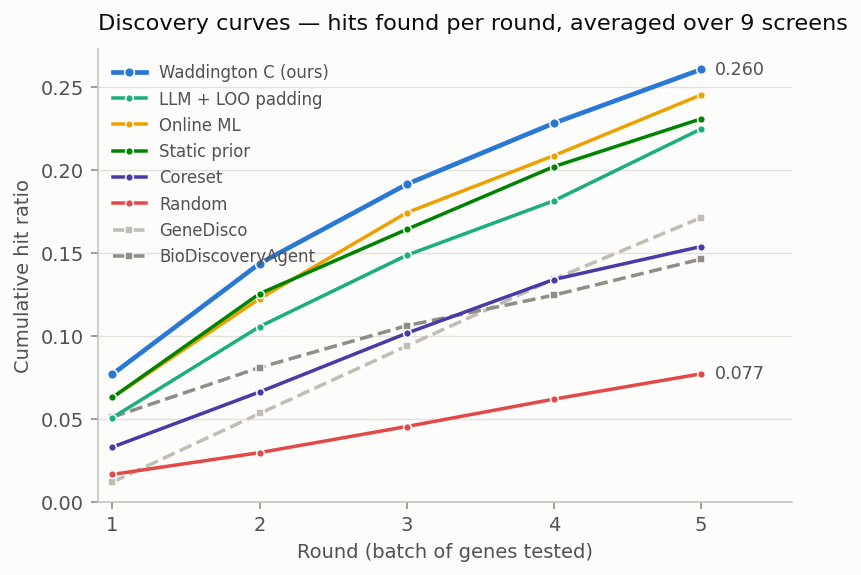
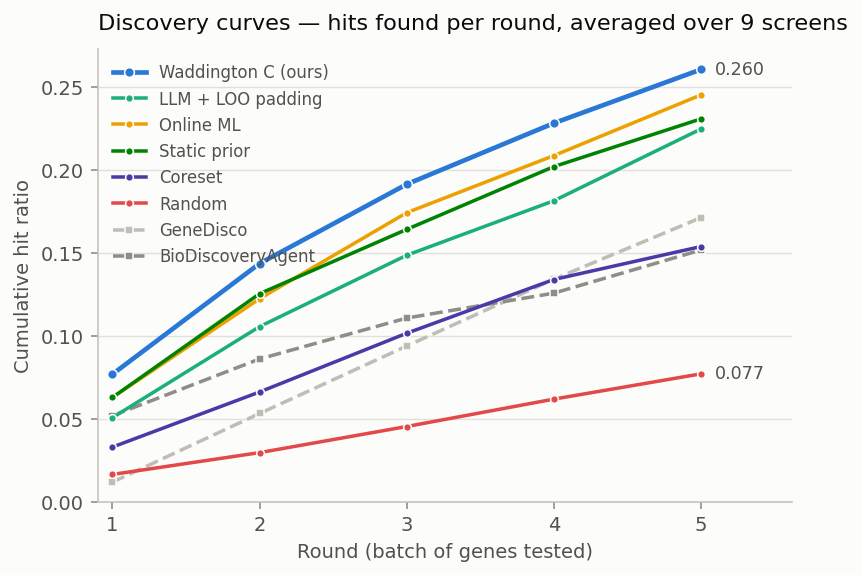
BDA's single-gene runs read with the corrected Replogle prompts
sources.BDA_HEADLINE_RUN / BDA_FULL_POOL_RUN (the experiment-25 merges) are
now what data.load_external, result_figures, label_free_vs_bda,
tier_extension and summarize_tiers read. BDA: 0.152 on both tiers (was
0.146 / 0.166). Degree vs BDA +0.012 [-0.034, 0.059] 5/0/4 (was +0.017),
on the full pool -0.005 (BDA wastes 32 of 160 K562-Essential picks on
names outside the pool, was 96). tier_extension_summary: only the BDA
full-pool entries change (plus float noise in the last digits). Figures
1-3, 14 and 24 redrawn; the tier chart no longer says BDA rises.

diff --git a/waddington_select/analysis/result_figures.py b/waddington_select/analysis/result_figures.py
@@ -34,7 +34,7 @@ from matplotlib.patches import Patch, Rectangle  # noqa: E402
 from matplotlib.ticker import PercentFormatter  # noqa: E402
 
 from . import style as S  # noqa: E402
-from .sources import MATCHED_B_ARM, matched_b_run  # noqa: E402
+from .sources import BDA_FULL_POOL_RUN, BDA_HEADLINE_RUN, MATCHED_B_ARM, matched_b_run  # noqa: E402
 
 REPO = Path(__file__).resolve().parents[2]
 RES = REPO / "workspace" / "results"
@@ -695,11 +695,11 @@ def fig_tiers():
     """Every method on the two single-gene tiers."""
     mb, mbb = load("matched_baselines.json"), load("matched_b.json")
     h, f = mb["headline"]["means"], mb["full_pool"]["means"]
-    paper(0.146, 0.166, 0.171, 0.170)
+    paper(0.152, 0.171, 0.170)
     items = [("Waddington C", h["C"], f["C"]), ("Online ML", h["matched_online_ml"], f["matched_online_ml"]),
              (name_static(), h["matched_static_prior"], f["matched_static_prior"]),
              (name_b(), mbb["headline"]["means"]["matched_B"], mbb["full_pool"]["means"]["matched_B"]),
-             ("GeneDisco", 0.171, 0.170), ("BDA", 0.146, 0.166), ("Coreset", h["matched_coreset"], f["matched_coreset"]),
+             ("GeneDisco", 0.171, 0.170), ("BDA", 0.152, 0.152), ("Coreset", h["matched_coreset"], f["matched_coreset"]),
              ("Random", h["benchmark_random"], f["benchmark_random"])]
     fig, ax = plt.subplots(figsize=(6.6, 2.7))
     yy = np.arange(len(items))[::-1]
@@ -717,8 +717,8 @@ def fig_tiers():
     legend(ax, [Line2D([], [], marker="o", ls="", ms=7, color=BLUE, label=L("非必需（主档）", "non-essential (headline)")),
                 Line2D([], [], marker="s", ls="", ms=7, color=PURPLE, label=L("全池", "full pool"))], loc="upper left")
     title(ax, L("两个单扰动档：排序基本不变", "The two single-gene tiers: the ordering barely moves"),
-          L("只有 BDA 在全池档明显上升（必需基因正是 LLM 容易点名的）",
-            "only BDA rises clearly on the full pool"))
+          L("每个方法在两档之间的变化都不超过 0.01",
+            "no method moves by more than 0.01 between the tiers"))
     save(fig, "tiers")
 
 
@@ -896,11 +896,11 @@ def _single_tier(tier: str) -> dict:
          "Coreset": {s: mat[s]["coreset"] for s in SCREENS},
          "Random": {s: rep[s]["random"] for s in SCREENS}}
     if tier == "headline":
-        bda = load("bda_controlled/bda_gpt.json")["results"]
+        bda = json.loads(BDA_HEADLINE_RUN.read_text())["results"]
         m["BDA"] = {s: bda[s]["hit_ratio_per_round"] for s in SCREENS}
         m["GeneDisco"] = _gd_curves(RES / "ml_engines")
     else:
-        bda = json.loads((GPT / "tier_a_full_pool_20rep" / "bda_controlled.json").read_text())
+        bda = json.loads(BDA_FULL_POOL_RUN.read_text())
         m["BDA"] = {s: bda[s]["bda"][0]["hit_ratio_per_round"] for s in SCREENS}
         m["GeneDisco"] = _gd_curves(RES / "ml_engines" / "tier_a")
     return m
@@ -1486,9 +1486,9 @@ TIER_FIGS = (fig_tier_overall, fig_tier_screens, fig_tier_curves, fig_tier_paire
 
 # BDA and GeneDisco per screen: paper Table 4 (headline) and Table 22 (full pool)
 GD_H = [0.104, 0.168, 0.071, 0.088, 0.052, 0.433, 0.043, 0.352, 0.228]
-BDA_H = [0.110, 0.133, 0.038, 0.073, 0.050, 0.327, 0.131, 0.254, 0.199]
+BDA_H = [0.110, 0.133, 0.038, 0.073, 0.050, 0.327, 0.131, 0.365, 0.137]   # Replogle pair: corrected prompts
 GD_F = [0.098, 0.174, 0.058, 0.071, 0.061, 0.449, 0.042, 0.352, 0.228]
-BDA_F = [0.098, 0.099, 0.039, 0.097, 0.042, 0.358, 0.121, 0.492, 0.147]
+BDA_F = [0.098, 0.099, 0.039, 0.097, 0.042, 0.358, 0.121, 0.349, 0.160]   # Replogle pair: corrected prompts
 
 
 def main() -> None:

diff --git a/waddington_select/analysis/label_free_vs_bda.py b/waddington_select/analysis/label_free_vs_bda.py
@@ -6,7 +6,8 @@ ties in a label-free order) sit at or above BDA's 0.146 on the headline tier. Th
 asymmetry in our favour (Method, Relationship to BioDiscoveryAgent): our arms, and these rankings, choose
 from the non-essential pool, while BDA's agent proposes from the whole genome and every core-essential (or
 out-of-pool) name it gives is a wasted slot. So each ranking is scored two ways, paired by screen against
-BDA's GPT-5.6 Luna run (bda_controlled/bda_gpt.json, one run per screen):
+BDA's GPT-5.6 Luna run (sources.BDA_HEADLINE_RUN: bda_controlled/bda_gpt.json with the two Replogle screens
+re-run under the corrected task prompts, one run per screen):
 
   ne_pool     candidates = the non-essential pool (as the paper's rankings, and our arms)
   full_pool   candidates = the full pool (core-essential genes restored, tables.tier_tables("full_pool")),
@@ -36,7 +37,7 @@ from .final_system_stats import _paired
 
 REPO = Path(__file__).resolve().parents[2]
 NE_V3 = REPO / "workspace" / "evaluation" / "lgbm_training_data_v3.csv"   # as ml_engines.label_free_baselines
-BDA = REPO / "workspace" / "results" / "bda_controlled" / "bda_gpt.json"
+from .sources import BDA_HEADLINE_RUN as BDA  # noqa: E402
 OUT = REPO / "workspace" / "results" / "label_free_vs_bda.json"
 FEATURES = ["hub_score_norm", "ppi_score_sum", "string_degree_norm", "depmap_frac_ess"]
 

diff --git a/waddington_select/analysis/sources.py b/waddington_select/analysis/sources.py
@@ -37,6 +37,14 @@ def matched_b_run(setting: str) -> Path:
     return MATCHED_B_DIR / setting / f"{MATCHED_B_ARM}_20rep.json"
 
 
+# BioDiscoveryAgent's controlled runs on the two single-gene tiers (one run per screen), with the two Replogle
+# screens re-run under the corrected task prompts (experiment 25, analysis/bda_replogle_v2.py). The originals,
+# bda_controlled/bda_gpt.json (2026-08-30) and tier_a_full_pool_20rep/bda_controlled.json (09-11), read the
+# fitness / survival wording on those two screens.
+BDA_HEADLINE_RUN = REPO / "workspace" / "results" / "bda_controlled" / "bda_gpt_v2.json"
+BDA_FULL_POOL_RUN = GPT / "tier_a_full_pool_20rep" / "bda_controlled_v2.json"
+
+
 # before the prompt correction (kept, cited as such)
 FIRST_GPT_RUN_DIR = GPT / "gpt_5_6_luna_none_20rep"
 LEGACY_GPT_ABLATIONS = FIRST_GPT_RUN_DIR / "ablations_20rep.json"  # legacy-consistent routed C + ablations

diff --git a/workspace/evaluation/summarize_tiers.py b/workspace/evaluation/summarize_tiers.py
@@ -41,7 +41,8 @@ GENEDISCO_FILES = {
     "pairs": GPT / "tier_b_pairs_20rep" / "genedisco_3rep.json",
 }
 # BioDiscoveryAgent, run on our benchmark with our oracle (see workspace/results/bda_controlled/).
-BDA_FILE = REPO_ROOT / "workspace" / "results" / "bda_controlled" / "bda_gpt.json"
+# The two Replogle screens re-run under the corrected task prompts (experiment 25, analysis/bda_replogle_v2.py).
+BDA_FILE = REPO_ROOT / "workspace" / "results" / "bda_controlled" / "bda_gpt_v2.json"
 ARMS = ["random", "coreset", "static_ranker", "online_adaptive", "llm_reasoning", "waddington_c"]
 ARM_LABEL = {
     "random": "Random",

diff --git a/waddington_select/analysis/tier_extension.py b/waddington_select/analysis/tier_extension.py
@@ -287,7 +287,8 @@ def full_pool_per_screen() -> dict:
     cols = {"random": main["random"], "coreset": main["coreset"], "static_ranker": main["static_ranker"],
             "online_ml": main["online_adaptive"], "padded_llm": main["llm_reasoning"], "waddington_c": main["waddington_c"]}
     gd = _arms(ENG / "port" / "tier_a_gdfb_coreset_seeded.json").get("gdfb_achilles_bnn_coreset")
-    bda = _arms(RES / "gpt" / "tier_a_full_pool_20rep" / "bda_controlled.json").get("bda")
+    from .sources import BDA_FULL_POOL_RUN
+    bda = _arms(BDA_FULL_POOL_RUN).get("bda")
     if gd:
         cols["genedisco"] = gd
     if bda:

diff --git a/waddington_select/analysis/data.py b/waddington_select/analysis/data.py
@@ -159,7 +159,7 @@ def load_external() -> pd.DataFrame:
     Both carry the caveats spelled out in the external-comparison tables; they are shown in neutral grey.
     """
     rows = []
-    bda_p = REPO_ROOT / "workspace" / "results" / "bda_controlled" / "bda_gpt.json"
+    from .sources import BDA_HEADLINE_RUN as bda_p   # Replogle screens with the corrected prompts
     if bda_p.exists():
         for ds, v in json.loads(bda_p.read_text()).get("results", {}).items():
             prr = v.get("hit_ratio_per_round") or [v["hit_at_r5"]]
